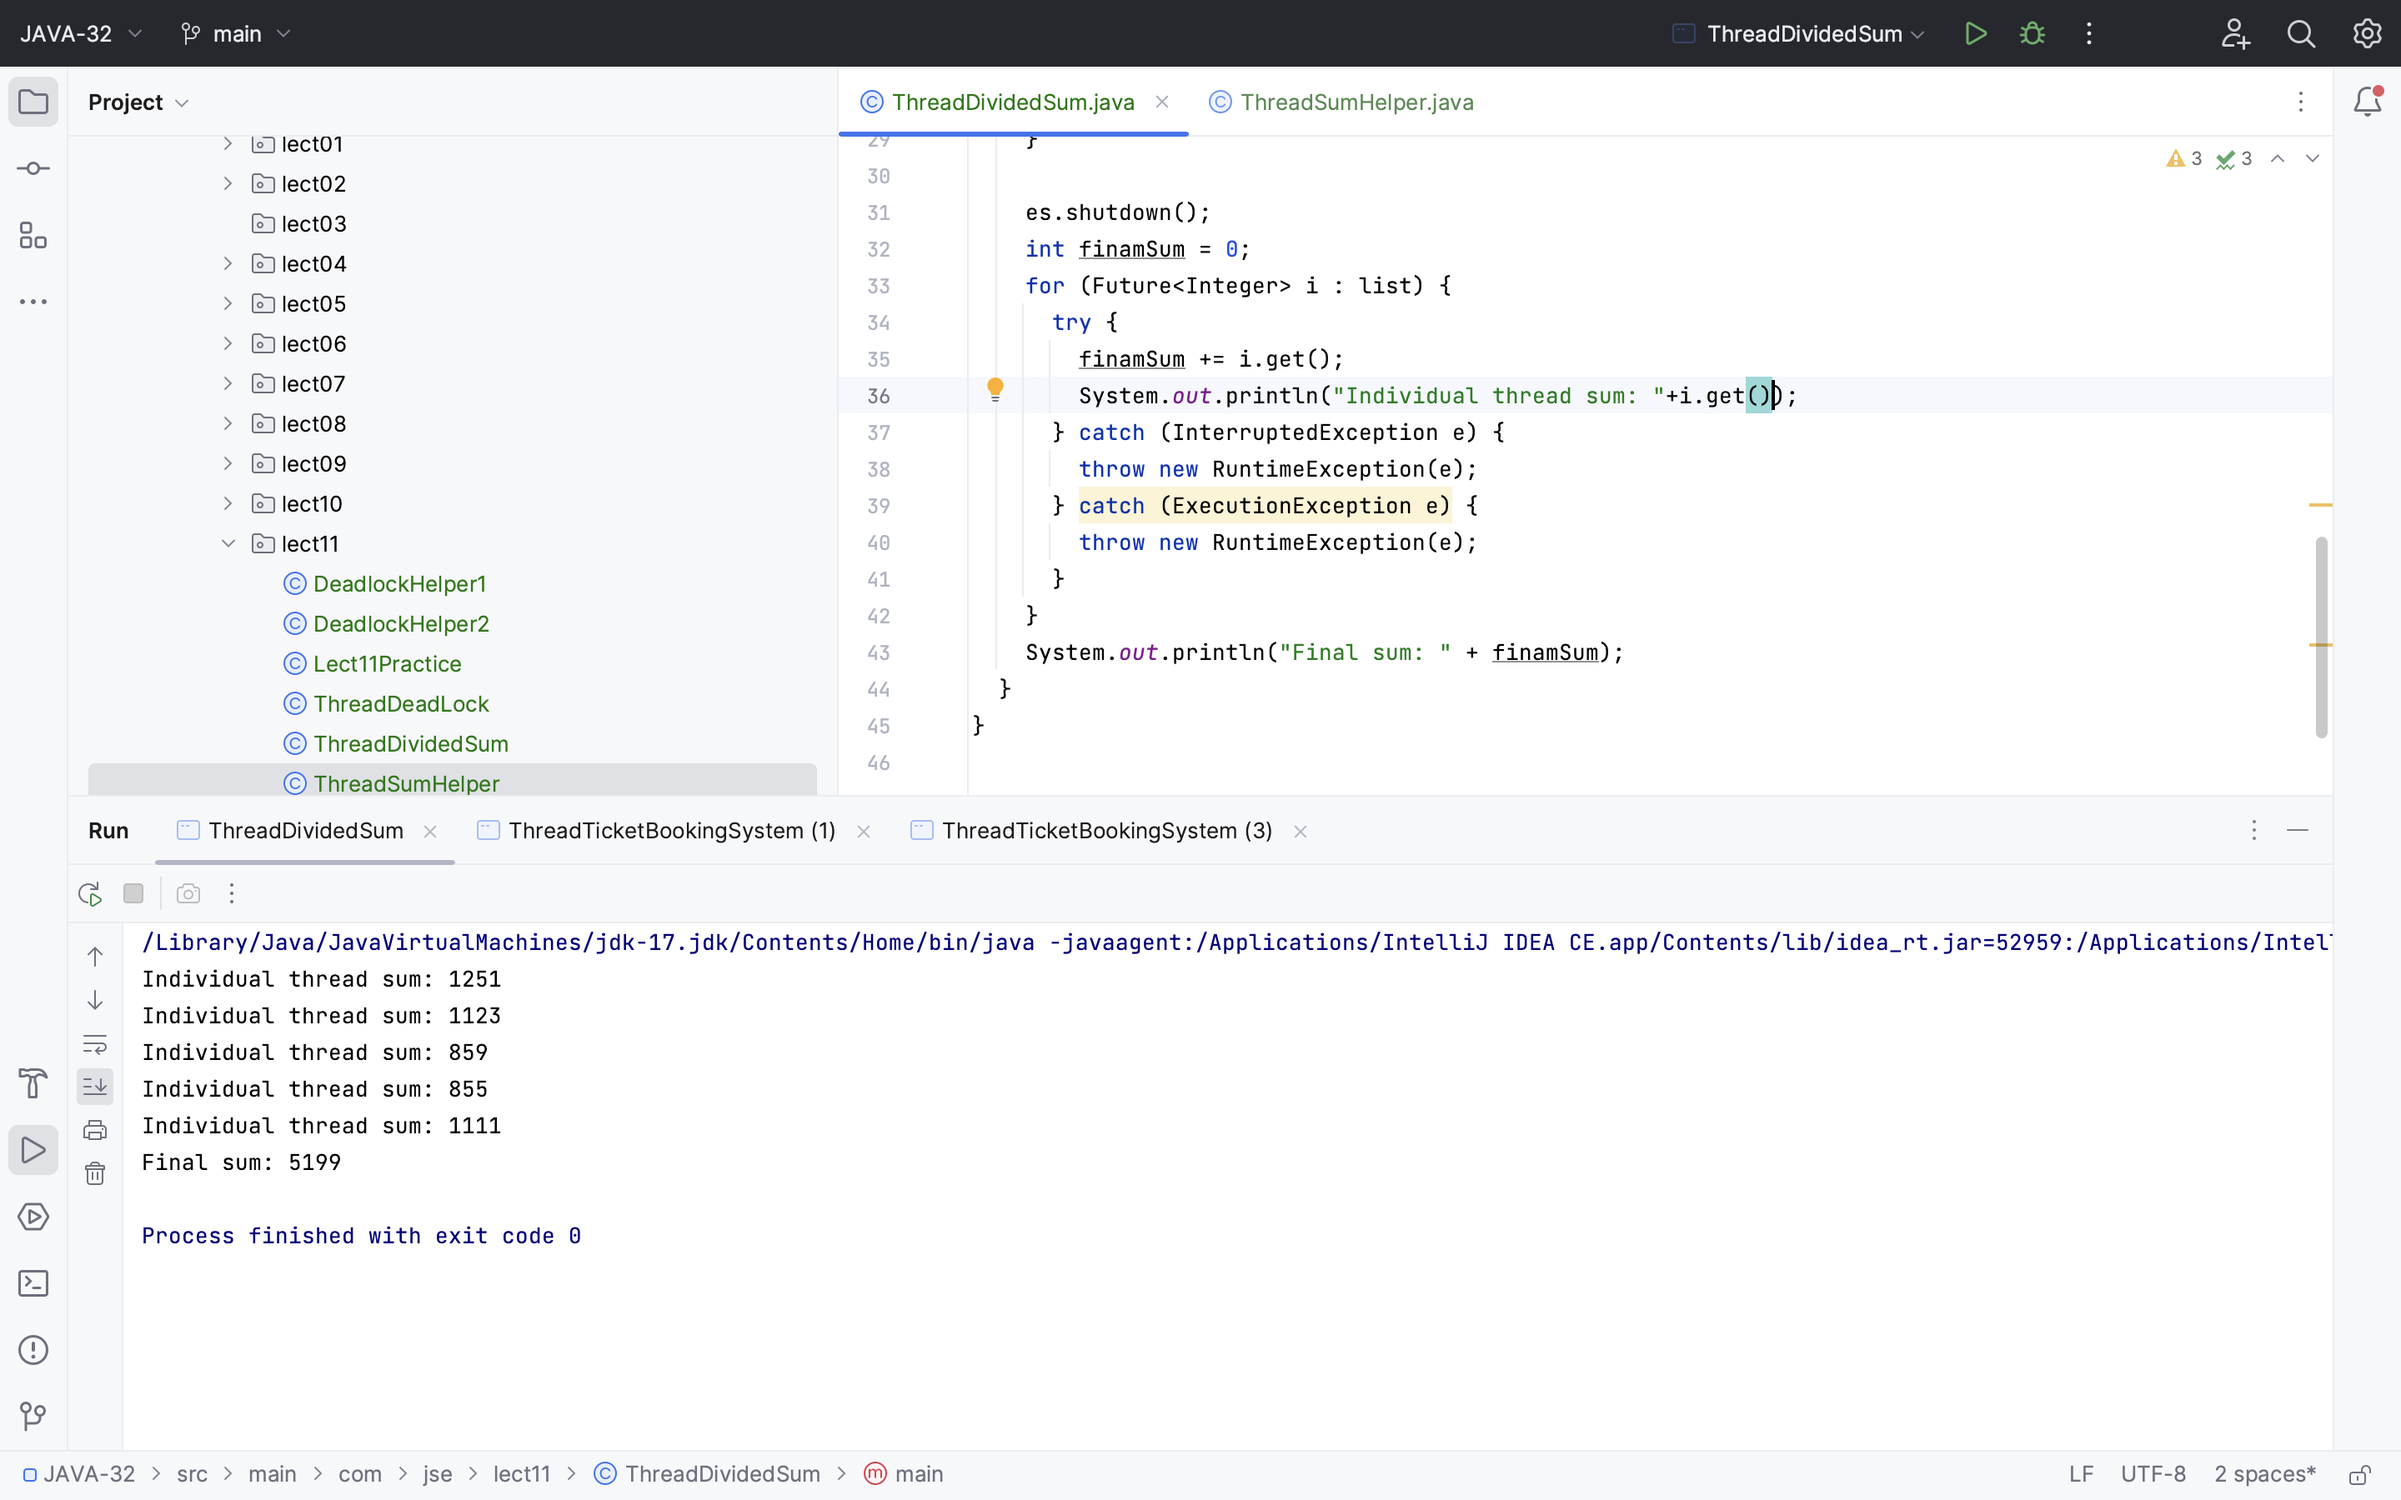
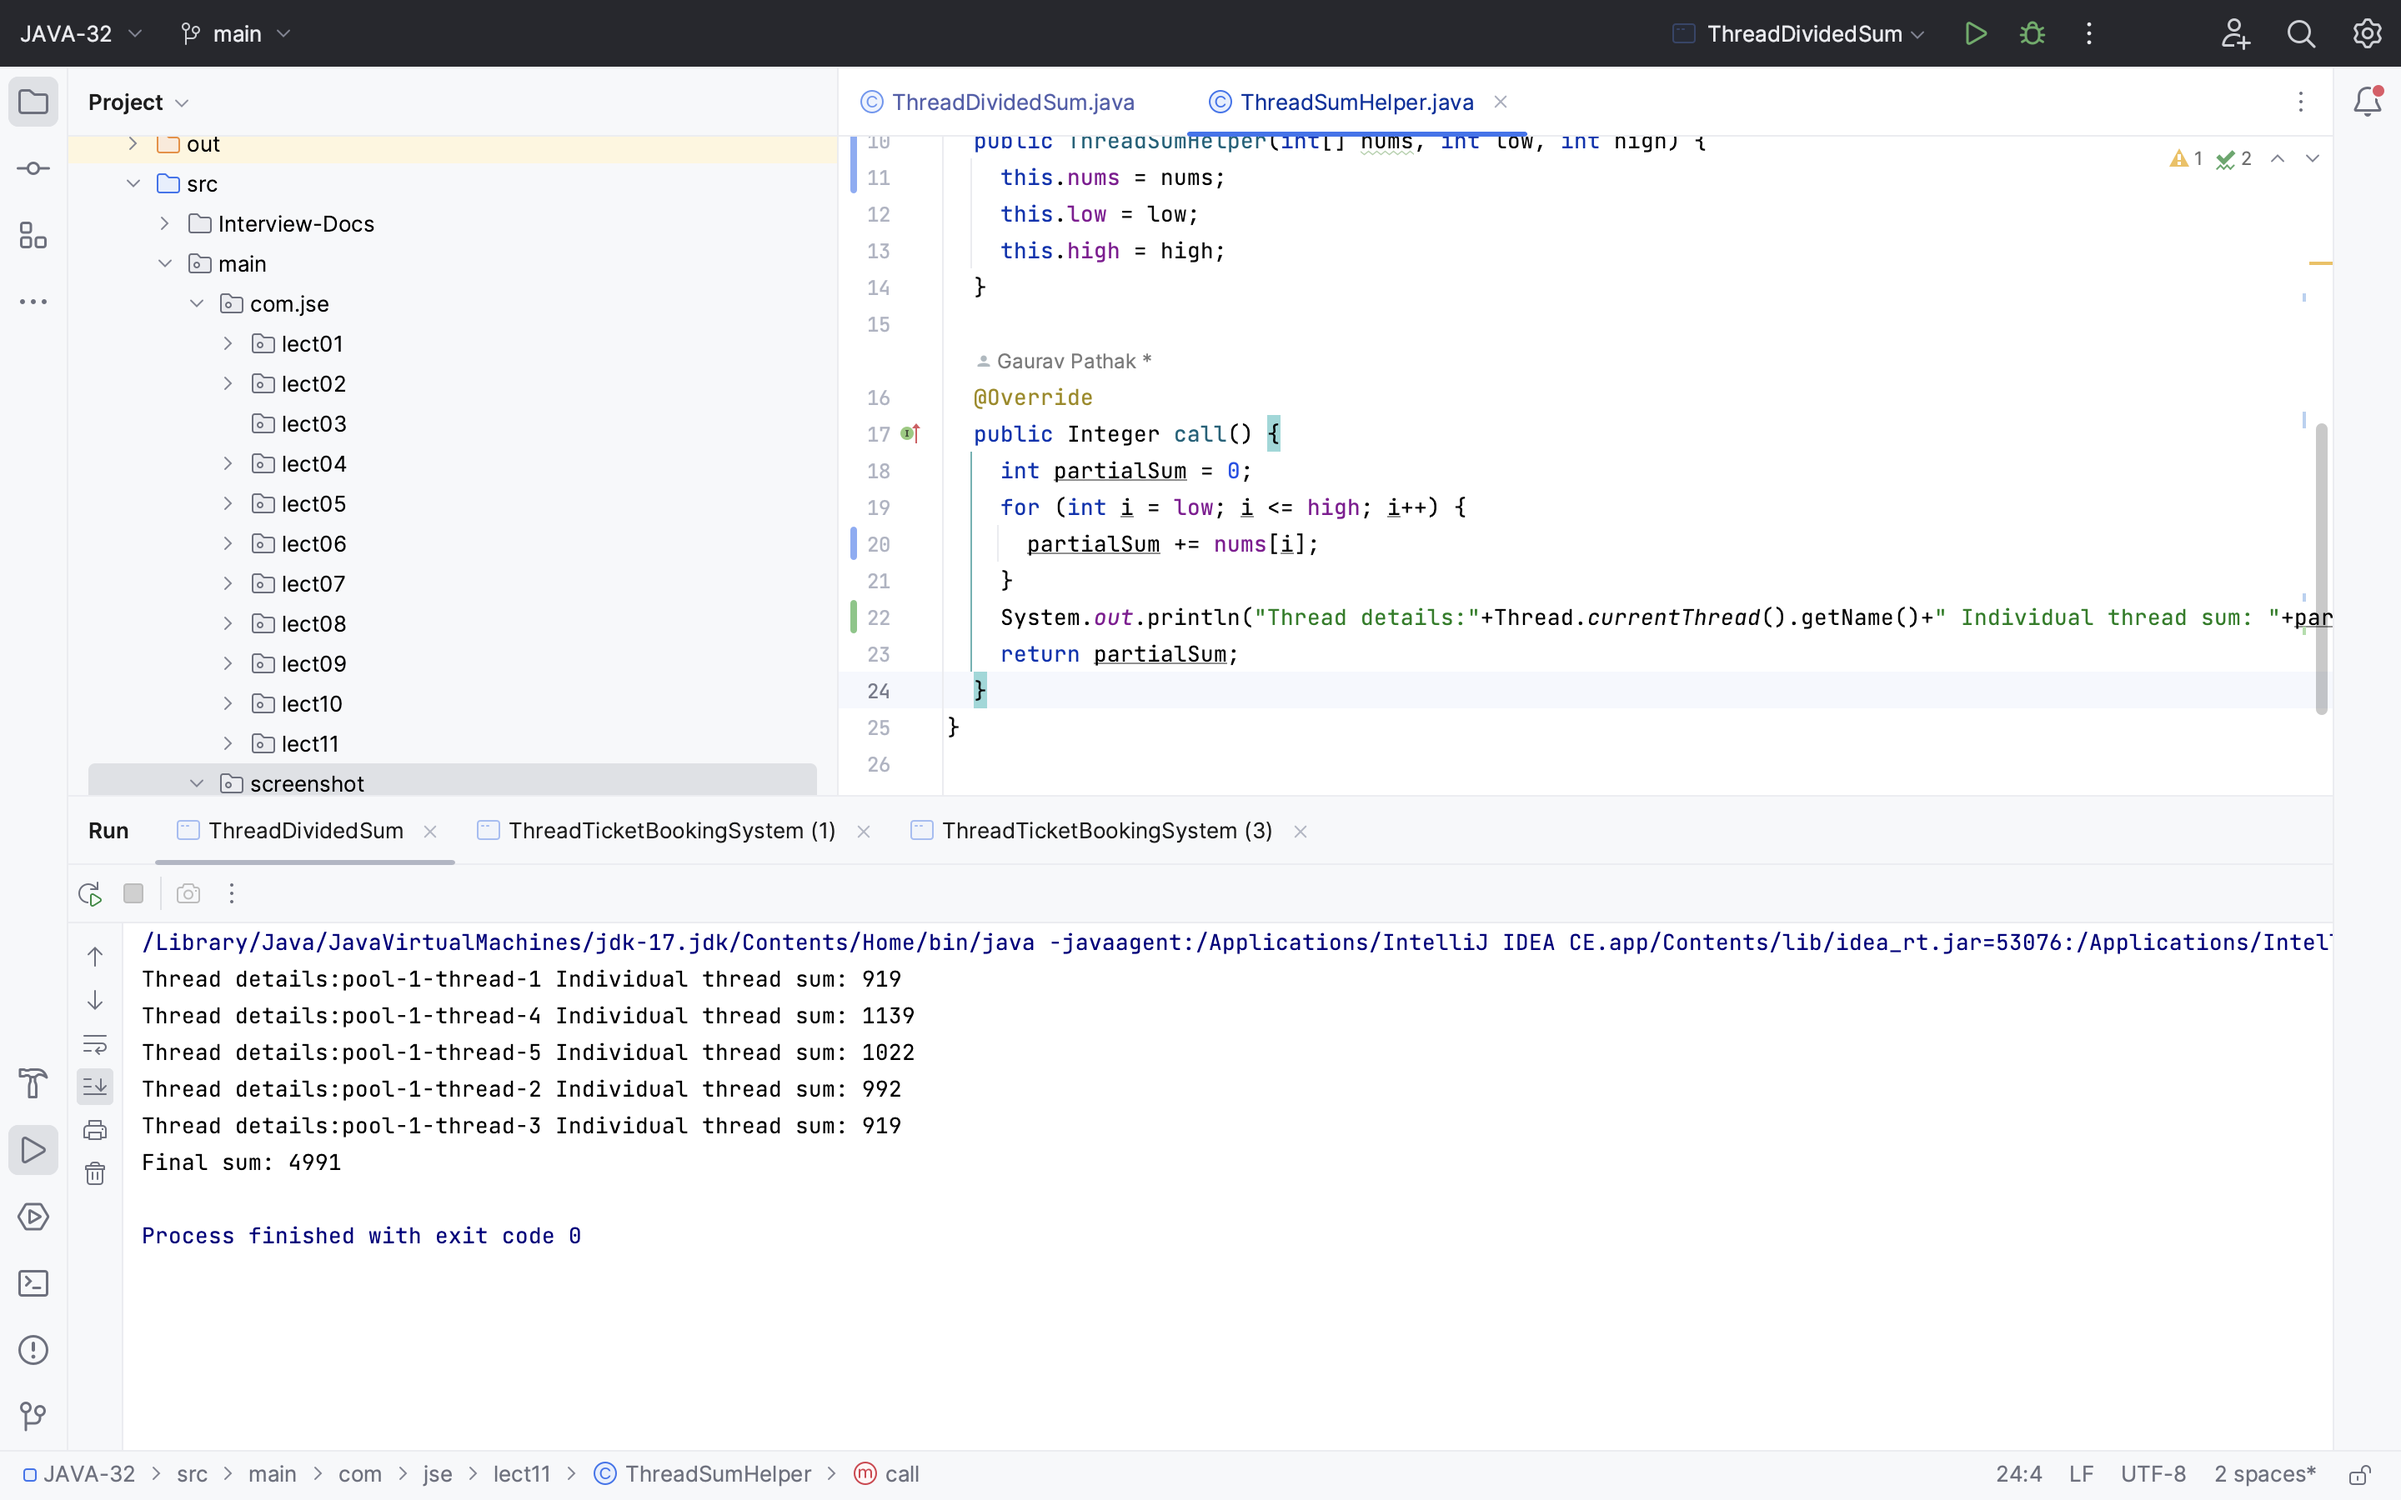
[Output Update for Thread]

diff --git a/src/main/com/jse/lect11/ThreadSumHelper.java b/src/main/com/jse/lect11/ThreadSumHelper.java
@@ -3,12 +3,12 @@ package main.com.jse.lect11;
 import java.util.concurrent.Callable;
 
 public class ThreadSumHelper implements Callable {
-  private final int[] array;
+  private final int[] nums;
   private final int low;
   private final int high;
 
-  public ThreadSumHelper(int[] array, int low, int high) {
-    this.array = array;
+  public ThreadSumHelper(int[] nums, int low, int high) {
+    this.nums = nums;
     this.low = low;
     this.high = high;
   }
@@ -17,8 +17,9 @@ public class ThreadSumHelper implements Callable {
   public Integer call() {
     int partialSum = 0;
     for (int i = low; i <= high; i++) {
-      partialSum += array[i];
+      partialSum += nums[i];
     }
+    System.out.println("Thread details:"+Thread.currentThread().getName()+" Individual thread sum: "+partialSum);
     return partialSum;
   }
 }

diff --git a/src/main/com/jse/lect11/ThreadDividedSum.java b/src/main/com/jse/lect11/ThreadDividedSum.java
@@ -33,7 +33,6 @@ public class ThreadDividedSum {
     for (Future<Integer> i : list) {
       try {
         finamSum += i.get();
-        System.out.println("Individual thread sum: "+i.get());
       } catch (InterruptedException e) {
         throw new RuntimeException(e);
       } catch (ExecutionException e) {
